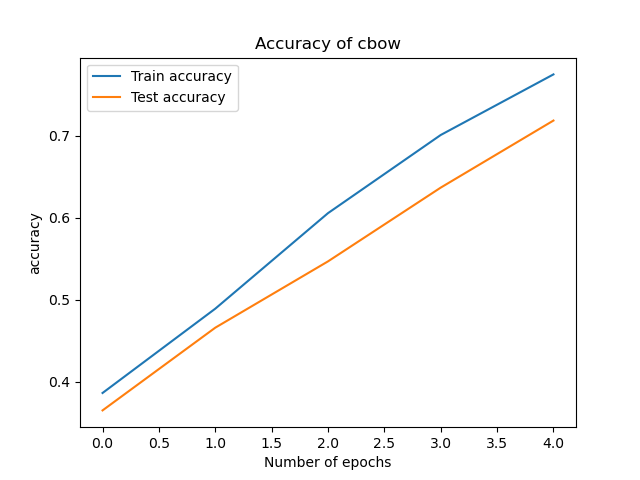
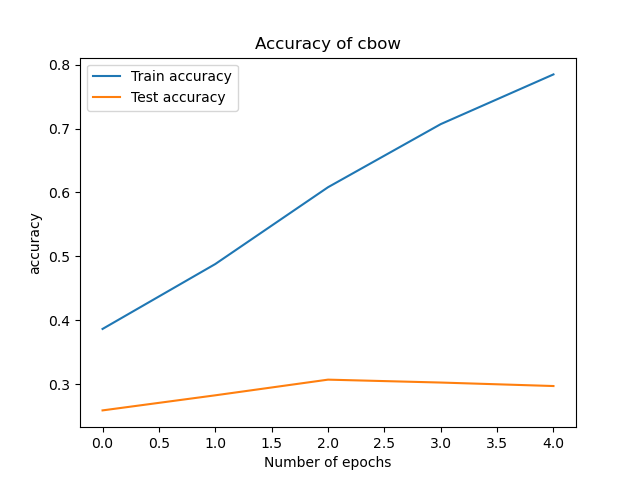
fixed mistake with grad

diff --git a/practical_2/train.py b/practical_2/train.py
@@ -69,38 +69,35 @@ def train_model(model, optimizer, train_dataloader, eval_dataloader, n_epochs=20
 
         ### Evaluation
         if epoch % eval_every == 0 or epoch == n_epochs - 1:
+            with torch.no_grad():
+                model.eval()
 
-            model.eval()
-            loss_eval = 0
-            seen_examples = 0
-            callback_values = []
-            for x, y in eval_dataloader:
+                loss_eval = 0
+                seen_examples = 0
+                callback_values = []
+                for x, y in eval_dataloader:
 
-                optimizer.zero_grad()
+                    optimizer.zero_grad()
 
-                seen_examples += len(x)
+                    seen_examples += len(x)
 
-                # Put it on gpu
-                x, y = x.to(device), y.to(device)
+                    # Put it on gpu
+                    x, y = x.to(device), y.to(device)
 
-                # Forward pass
-                out = model.forward(x)
+                    # Forward pass
+                    out = model.forward(x)
 
-                loss = criterion(out, y)
+                    loss = criterion(out, y)
 
-                # Backward pass
-                loss.backward()
-                optimizer.step()
+                    # Keep track of statistics
+                    loss_eval += loss.item()
 
-                # Keep track of statistics
-                loss_eval += loss.item()
+                    if eval_callback:
+                        eval_callback.forward(out, y)
 
+                history["test_loss"].append(loss_eval / seen_examples)
                 if eval_callback:
-                    eval_callback.forward(out, y)
-
-            history["test_loss"].append(loss_eval / seen_examples)
-            if eval_callback:
-                history["test_eval"].append(eval_callback.accumulate())
-            model.train()
+                    history["test_eval"].append(eval_callback.accumulate())
+                model.train()
 
     return history

diff --git a/practical_2/scripts/train_cbow.py b/practical_2/scripts/train_cbow.py
@@ -31,8 +31,8 @@ eval_callback = ListCallback([
     AccuracyCallback()
 ])
 
-history = train_model(model, optimizer, train_dataloader, eval_dataloader, eval_callback=eval_callback, n_epochs=25,
-                      eval_every=5)
+history = train_model(model, optimizer, train_dataloader, eval_dataloader, eval_callback=eval_callback, n_epochs=5,
+                      eval_every=1)
 
 
 save_history(history, 'histories/cbow')
